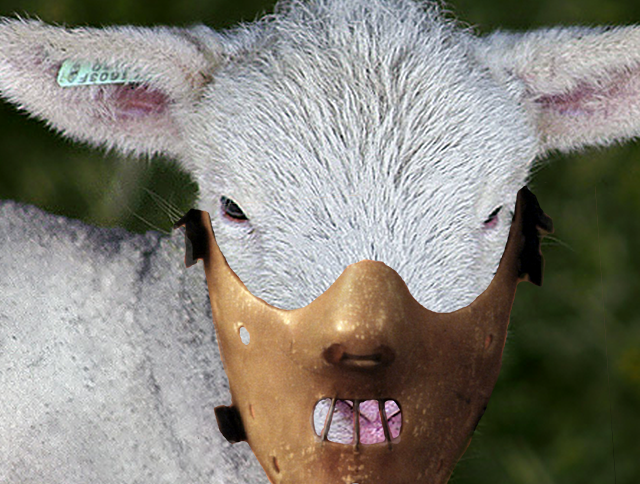
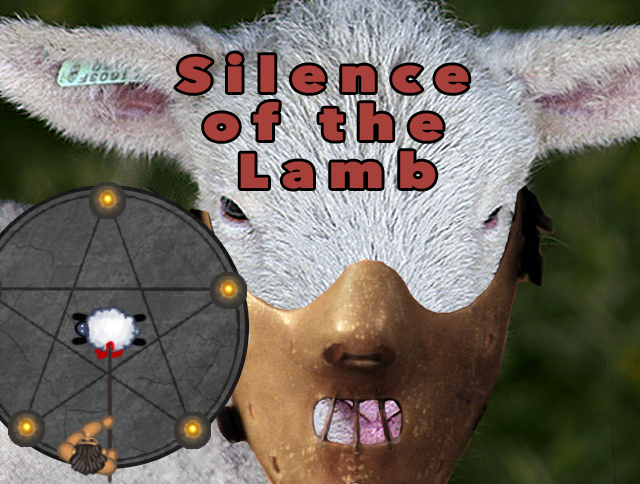
new title screen

Changed region(s): [[0.0, 0.3719, 0.4062, 1.0], [0.25, 0.093, 0.75, 0.4029]]

diff --git a/proj/core/src/net/thirteen/sotl/screens/TitleScreen.java b/proj/core/src/net/thirteen/sotl/screens/TitleScreen.java
@@ -43,7 +43,6 @@ public class TitleScreen implements Screen {
 
 		game.batch.begin();
 		game.batch.draw(Main.manager.get("titleScreenBG.png", Texture.class), 0, 0);
-		game.font.draw(game.batch, title, (Main.WIDTH - title.width) / 2, (Main.HEIGHT + title.height) * 0.75f);
 		if(screenTimer >= 4)
 			game.fontB.draw(game.batch, start, (Main.WIDTH - start.width) / 2, (Main.HEIGHT + start.height) * 0.1f);
 		game.batch.end();
@@ -59,7 +58,6 @@ public class TitleScreen implements Screen {
 
 		game.font.setColor(0, 0, 0, screenTimer / 4);
 		game.fontB.setColor(1, 1, 1, flashTimer);
-		title.setText(game.font, "Silence of the Lamb");
 		start.setText(game.fontB, "click / press enter to begin");
 
 	}
